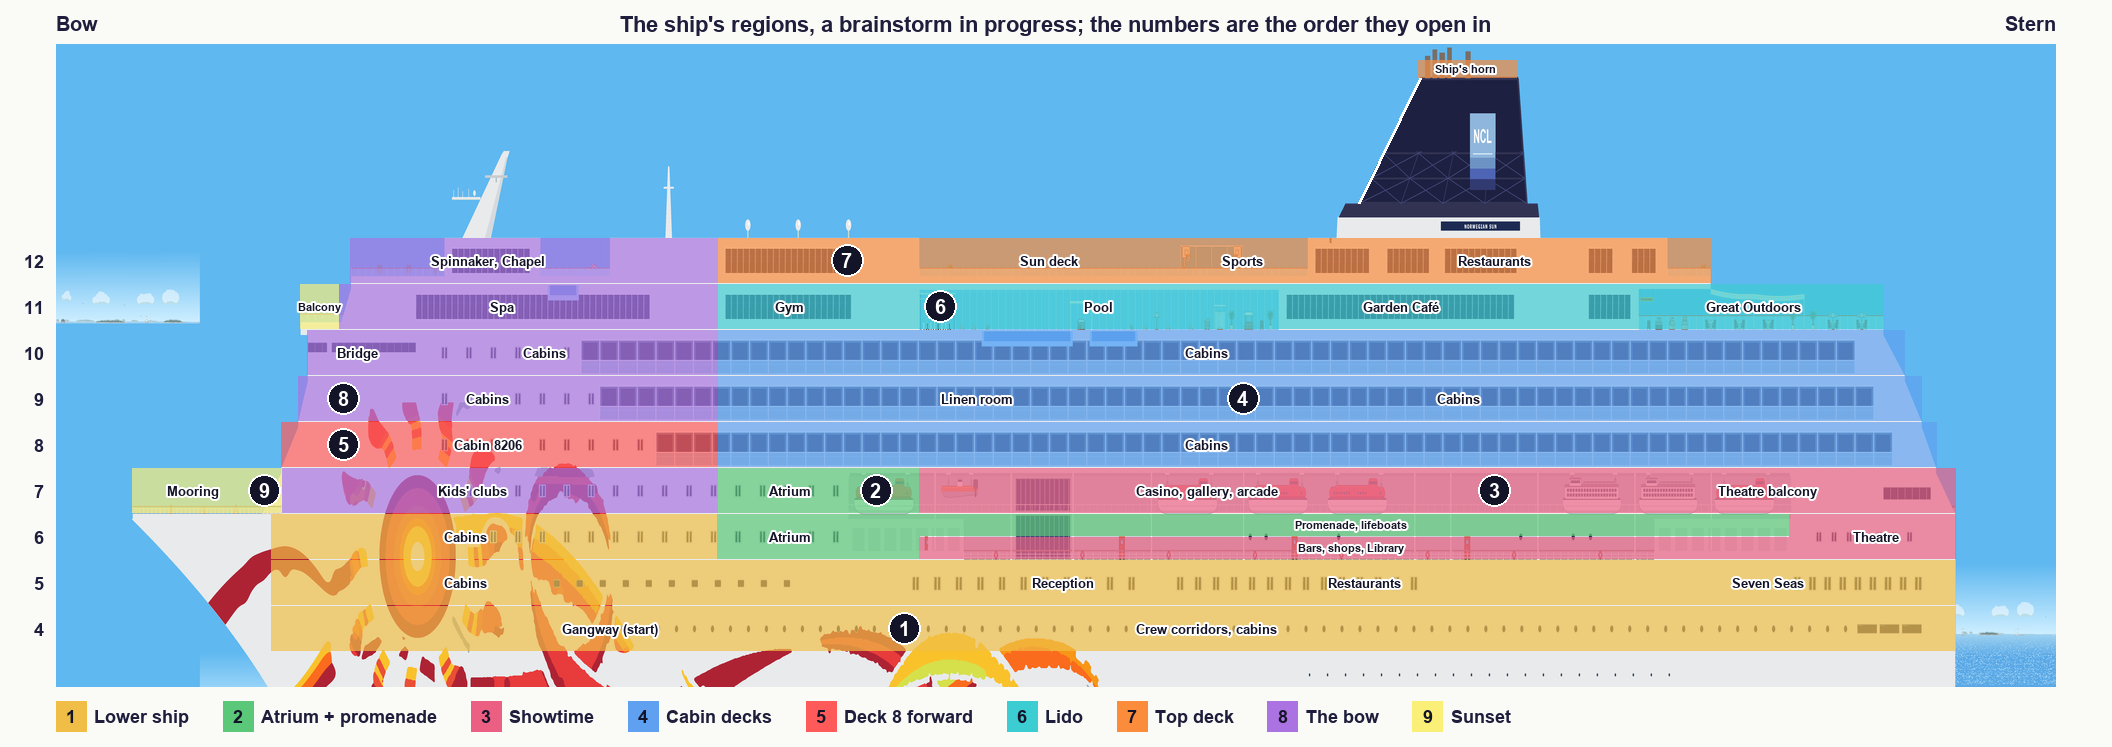
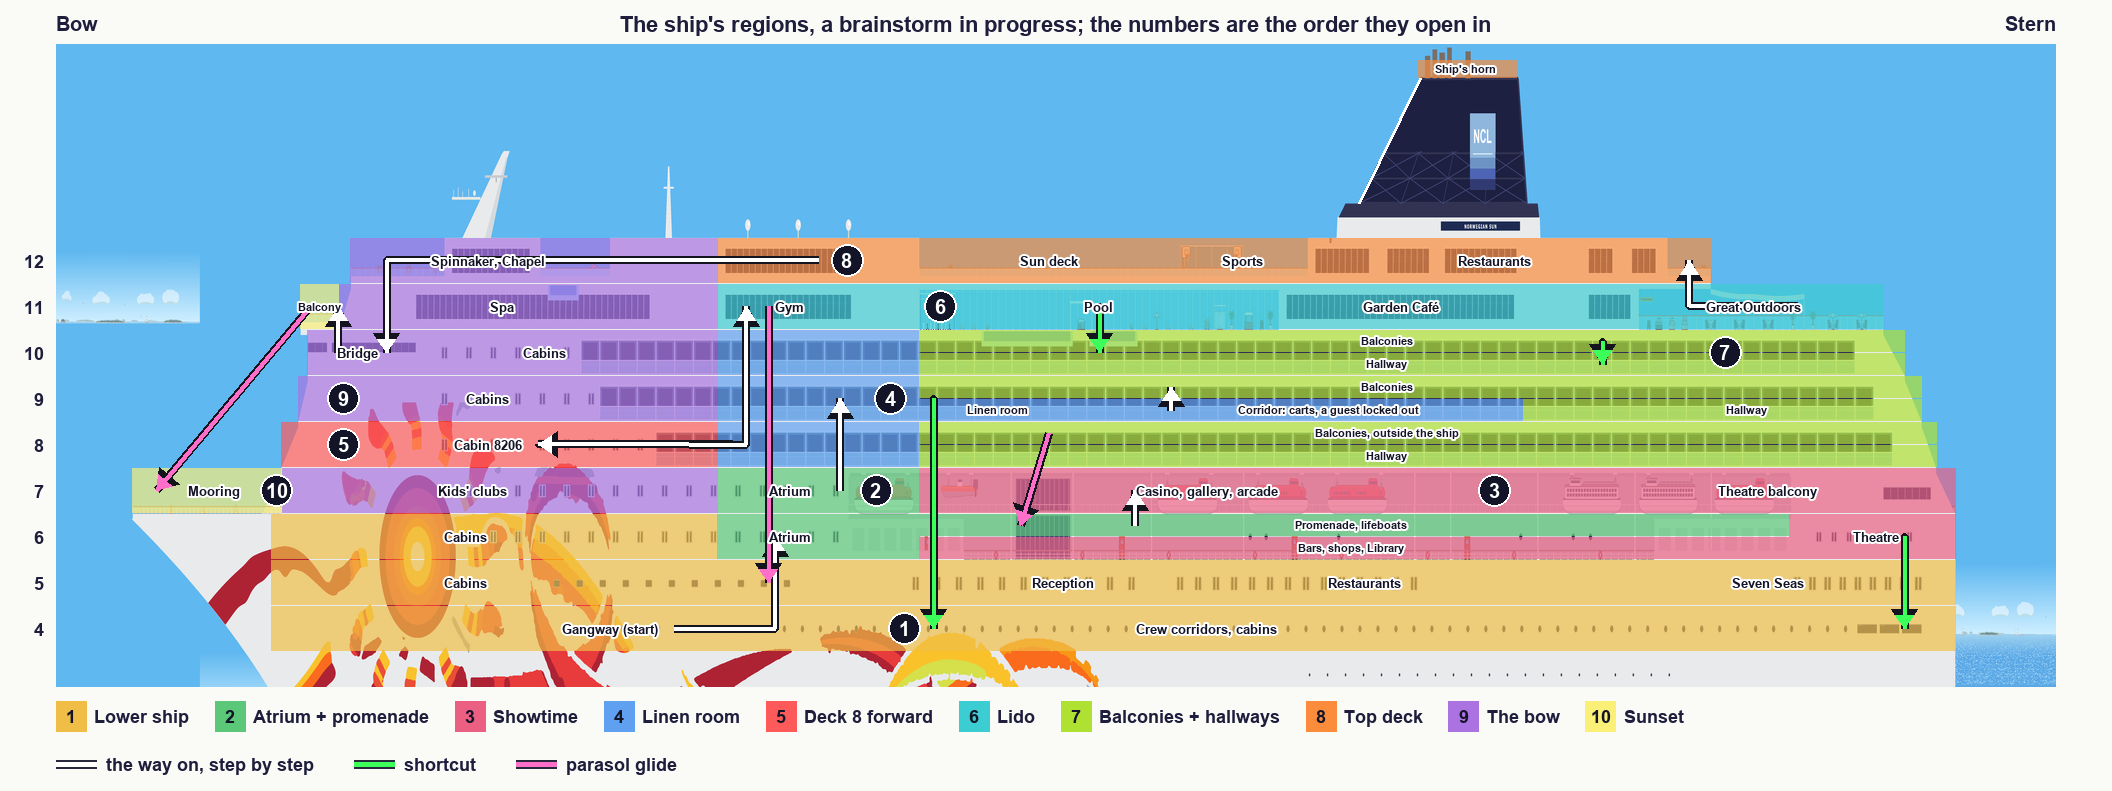
Progression brainstorm, second draft (nothing decided): the cabin decks become hallways opened from the balconies outside, a short Linen room region round deck 9's corridor, ten steps, the routes drawn on the region map

diff --git a/tools/draw_regions.py b/tools/draw_regions.py
@@ -28,8 +28,11 @@ BOTTOM_WORLD = floor_y(4) + 110            # a little hull and sea
 FUNNEL_FA, FUNNEL_TOP = 8544, -228         # the funnel's fore edge and top, as buildFunnel() draws them
 
 
-# Each region: its number, name, colour, and its pieces as (deck, from m, to m), with `half` on the
-# promenade's piece: it shares deck 6 with the rooms behind it, so each takes half of the row.
+# Each region: its number, name, colour, and its pieces as (deck, from m, to m). Where the outside of
+# the ship runs along a deck, its row is split: "outN" the outside half (deck 6's promenade, the
+# balconies on decks 8-10), "inN" the inside half; "prom" and "rooms" are deck 6's two halves.
+# (The user, 2026-11-10: the cabin decks were one long region of corridors. They are hallways
+# now, opened from the balconies outside; only deck 9 midships, round the linen room, is a region.)
 REGIONS = [
     (1, "Lower ship", (240, 190, 70), [
         (4, 20, 254), (5, 20, 254), (6, 20, 82)]),
@@ -37,42 +40,70 @@ REGIONS = [
         (6, 82, 110), (7, 82, 110), ("prom", 110, 231)]),
     (3, "Showtime", (235, 95, 130), [
         ("rooms", 110, 231), (6, 231, 254), (7, 110, 254)]),
-    (4, "Cabin decks", (95, 160, 240), [
-        (8, 82, 251.5), (9, 82, 249.5), (10, 82, 247)]),
+    (4, "Linen room", (95, 160, 240), [
+        (8, 82, 110), (9, 82, 110), (10, 82, 110), ("in9", 110, 194)]),
     (5, "Deck 8 forward", (255, 90, 90), [
         (8, 21.4, 82)]),
     (6, "Lido", (60, 205, 210), [
         (11, 82, 244)]),
-    (7, "Top deck", (250, 140, 60), [
+    (7, "Balconies + hallways", (175, 225, 50), [
+        ("out8", 110, 251.5), ("out9", 110, 249.5), ("out10", 110, 247),
+        ("in8", 110, 251.5), ("in9", 194, 249.5), ("in10", 110, 247)]),
+    (8, "Top deck", (250, 140, 60), [
         (12, 82, 220), ("funnel", 179.5, 193)]),
-    (8, "The bow", (170, 115, 225), [
+    (9, "The bow", (170, 115, 225), [
         (7, 21.4, 82), (9, 23.6, 82), (10, 25, 82), (11, 29.5, 82), (12, 31, 82)]),
-    (9, "Sunset", (250, 240, 120), [
+    (10, "Sunset", (250, 240, 120), [
         (7, 0.5, 21.4), (11, 24, 29.5)]),
 ]
 COLOUR = {n: c for n, _, c, _ in REGIONS}
+FUNNEL_REGION = 8
 
-# Names on the big map: (deck, metre, text); "prom"/"rooms" are deck 6's two halves.
+# Names on the big map: (deck, metre, text).
 LABELS = [
     (4, 67, "Gangway (start)"), (4, 150, "Crew corridors, cabins"),
     (5, 47, "Cabins"), (5, 130, "Reception"), (5, 172, "Restaurants"), (5, 228, "Seven Seas"),
     (6, 47, "Cabins"), (6, 92, "Atrium"), ("prom", 170, "Promenade, lifeboats"),
     ("rooms", 170, "Bars, shops, Library"), (6, 243, "Theatre"),
-    (7, 9, "Mooring"), (7, 48, "Kids' clubs"), (7, 92, "Atrium"), (7, 150, "Casino, gallery, arcade"),
+    (7, 12, "Mooring"), (7, 48, "Kids' clubs"), (7, 92, "Atrium"), (7, 150, "Casino, gallery, arcade"),
     (7, 228, "Theatre balcony"),
-    (8, 50, "Cabin 8206"), (8, 150, "Cabins"), (9, 50, "Cabins"), (9, 118, "Linen room"),
-    (9, 185, "Cabins"), (10, 32, "Bridge"), (10, 58, "Cabins"), (10, 150, "Cabins"),
+    (8, 50, "Cabin 8206"), (9, 50, "Cabins"), (10, 32, "Bridge"), (10, 58, "Cabins"),
+    ("out8", 175, "Balconies, outside the ship"), ("in8", 175, "Hallway"),
+    ("out9", 175, "Balconies"), ("in9", 121, "Linen room"), ("in9", 167, "Corridor: carts, a guest locked out"),
+    ("in9", 225, "Hallway"), ("out10", 175, "Balconies"), ("in10", 175, "Hallway"),
     (11, 52, "Spa"), (11, 92, "Gym"), (11, 135, "Pool"), (11, 177, "Garden Café"),
     (11, 226, "Great Outdoors"), (12, 50, "Spinnaker, Chapel"), (12, 128, "Sun deck"),
     (12, 155, "Sports"), (12, 190, "Restaurants"), ("funnel", 186, "Ship's horn"), (11, 26.8, "Balcony"),
 ]
 
 # Where each region's number sits on the big map.
-BADGES = {1: (4, 108), 2: (7, 104), 3: (7, 190), 4: (9, 155), 5: (8, 30), 6: (11, 113), 7: (12, 100), 8: (9, 30), 9: (7, 19)}
+BADGES = {1: (4, 108), 2: (7, 104), 3: (7, 190), 4: (9, 106), 5: (8, 30), 6: (11, 113), 7: (10, 222),
+          8: (12, 100), 9: (9, 30), 10: (7, 20.5)}
+
+# The routes on the big map: (from (deck, m), to (deck, m), kind). "main": the way on into the next
+# region; "short": a shortcut she opens; "glide": with the parasol.
+ROUTES = [
+    ((4, 76), (6, 90), "main"),                 # 2: up through the atrium, the Deck card
+    (("prom", 140), (7, 140), "main"),          # 3: the door Bumbot left open
+    ((7, 99), (9, 99), "main"),                 # 4: the glass elevator goes on up
+    ((8, 84), (8, 57), "main"),                 # 5: the Housekeeping card's door, deck 8 forward
+    ((8, 78), (11, 86), "main"),                # 6: the forward stairs on up to the pool deck
+    (("in9", 145), ("out9", 145), "main"),      # 7: out through a balcony cabin, grip socks
+    ((11, 232), (12, 217), "main"),             # 8: a wall jump up to deck 12's aft terrace
+    ((12, 96), (10, 36), "main"),               # 9: the Officer's card, forward and down
+    ((10, 29.2), (11, 29.2), "main"),               # 10: the hatch
+    ((11, 25.5), (7, 4), "glide"),              #     and the glide to the bow
+    ((9, 112), (4, 112), "short"),              # the laundry chute
+    ((6, 247), (4, 247), "short"),              # the theatre's one-way trunk
+    ((11, 135), (10, 135), "short"),            # the drained pool's hatch
+    ((11, 89), (5, 89), "glide"),               # down the atrium
+    (("out8", 128), ("prom", 124), "glide"),    # off a balcony to the promenade
+    (("out10", 205), ("in10", 205), "short"),   # a balcony door opened from outside: a hallway
+]
 
 # The order: what opens the region, and the arrows on that step's ship:
 # (from (deck, m), to (deck, m), kind). "errand": hands full; "short": a shortcut; "back": a new
-# way into a place she knows.
+# way into a place she knows; "glide": with the parasol.
 STEPS = [
     (1, "Start at the gangway. Her colleague can't leave his post.",
      "Lunch waits on a tray in a restaurant: carry it to him. He gives her the Deck card.",
@@ -84,25 +115,30 @@ STEPS = [
      "The stage manager wants something from deck 4. Reward: the Entertainment card, and a one-way "
      "escape trunk down to deck 4.",
      [((4, 140), (6, 240), "errand"), ((6, 244), (4, 244), "short")]),
-    (4, "Entertainment card: backstage ladder up to the cabin decks.",
-     "Housekeeping card in the linen room. Opens the laundry chute to deck 4, and pantry doors on decks 4-5.",
-     [((7, 246), (8, 240), "back"), ((9, 113), (4, 113), "short"), ((9, 113), (5, 135), "back")]),
+    (4, "Entertainment card: the glass elevator goes on up to decks 8-10.",
+     "Only deck 9's midships corridor: carts, a door swinging open, a guest locked out, a balcony cabin. "
+     "The linen room: the Housekeeping card, the laundry chute to deck 4, pantry doors on decks 4-5.",
+     [((7, 96), (9, 96), "back"), ((9, 113), (4, 113), "short"), ((9, 113), (5, 135), "back")]),
     (5, "Housekeeping card opens the door at deck 8's forward end.",
      "Cabin 8206, the surprise, a bit past the middle of the game. Its door stands open on her way through.",
      [((8, 95), (8, 42), "back")]),
     (6, "Through deck 8 forward: the only stairs that go on up to the pool deck.",
      "Grip socks (wall jumps) and a parasol (long drops). Both change the old decks. "
      "Bumbot drains the pool: a hatch opens in its tank.",
-     [((8, 78), (11, 90), "back"), ((11, 92), (5, 92), "short"), ((11, 135), (10, 135), "short"),
-      ((11, 226), (7, 252), "back")]),
-    (7, "Grip socks: wall jumps up to deck 12, the roof, and the stairway up the funnel.",
+     [((8, 78), (11, 90), "back"), ((11, 92), (5, 92), "glide"), ((11, 135), (10, 135), "short")]),
+    (7, "Grip socks: out through the balcony cabin on deck 9, climbing balcony to balcony outside the ship.",
+     "Each balcony door she opens from outside unlocks a hallway inside: decks 8-10 become the fast way "
+     "fore and aft. A slip is the overboard scare; the parasol glides down to the promenade.",
+     [(("in9", 145), ("out9", 150), "back"), (("out9", 160), ("out10", 200), "back"),
+      (("out10", 205), ("in10", 205), "short"), (("out8", 128), ("prom", 124), "glide")]),
+    (8, "Grip socks again: a wall jump from the Great Outdoors up to deck 12, then the funnel's stairway.",
      "An engineer up there needs something brought to him, then lets her pull the ship's horn. "
      "The officer runs for the bridge and drops his card; the old lady leaves her sunbed; the gulls lift.",
-     [((5, 172), ("funnel", 186), "errand"), (("funnel", 183), (11, 140), "back"), (("funnel", 183), (12, 118), "back")]),
-    (8, "Officer's card: forward along deck 12, then down through the bow.",
+     [((11, 232), (12, 217), "back"), ((5, 172), ("funnel", 186), "errand"), (("funnel", 183), (12, 118), "back")]),
+    (9, "Officer's card: forward along deck 12, then down through the bow.",
      "Spa, kids' clubs, and at last the bridge. Bumbot hits the alarm there, and the hatch in its ceiling opens.",
      [((12, 85), (11, 60), "back"), ((11, 60), (10, 34), "back")]),
-    (9, "The hatch: up from the bridge to the balcony forward of the spa, as the sun sets.",
+    (10, "The hatch: up from the bridge to the balcony forward of the spa, as the sun sets.",
      "She glides down on the parasol to the mooring deck, shut until now. At the tip of the bow he finally comes to her.",
      [((10, 28), (11, 27), "back"), ((11, 26), (7, 5), "glide")]),
 ]
@@ -150,16 +186,21 @@ class Ship:
         return (x_of(m) - 8) * self.sx
 
     def band(self, deck):
-        """The top and bottom of a deck's row; deck 6's two halves for "prom" and "rooms"; on top
-        of the funnel for "funnel"."""
+        """The top and bottom of a deck's row. A deck's row is split in two where the outside of the
+        ship runs along it: "outN" its top half (deck 6's promenade, the balconies of decks 8-10),
+        "inN" its bottom half (the rooms and corridors inside); "prom" and "rooms" are deck 6's.
+        "funnel": on top of the funnel."""
         if deck == "funnel":
             return (FUNNEL_TOP - 58 - TOP_WORLD) * self.sy, (FUNNEL_TOP - TOP_WORLD) * self.sy
-        d = 6 if deck in ("prom", "rooms") else deck
-        bottom = (floor_y(d) - TOP_WORLD) * self.sy
+        deck = {"prom": "out6", "rooms": "in6"}.get(deck, deck)
+        half = None
+        if isinstance(deck, str):
+            half, deck = deck[:-1] if deck[-2].isalpha() else deck[:-2], int(deck.lstrip("outin"))
+        bottom = (floor_y(deck) - TOP_WORLD) * self.sy
         top = bottom - self.row
-        if deck == "prom":
+        if half == "out":
             return top, top + self.row / 2
-        if deck == "rooms":
+        if half == "in":
             return top + self.row / 2, bottom
         return top, bottom
 
@@ -199,7 +240,8 @@ def arrow(d, a, b, colour, width):
         d.polygon([b, (b[0] - sign * head * 1.5, b[1] - head), (b[0] - sign * head * 1.5, b[1] + head)], fill=colour)
 
 
-KIND = {"errand": (255, 255, 255), "short": (60, 255, 90), "back": (255, 240, 60), "glide": (255, 110, 200)}
+KIND = {"errand": (255, 255, 255), "short": (60, 255, 90), "back": (255, 240, 60), "glide": (255, 110, 200),
+        "main": (255, 255, 255)}
 
 
 def tint(ship, opened, new=None, dim=True, alpha=175):
@@ -216,7 +258,7 @@ def tint(ship, opened, new=None, dim=True, alpha=175):
                     d.rectangle(r, outline=(255, 255, 255, 255), width=2)
             elif dim:
                 d.rectangle(r, fill=(28, 26, 40, 225))
-    if 7 in opened:                 # the stairway up the funnel's sloped front
+    if FUNNEL_REGION in opened:     # the stairway up the funnel's sloped front
         ImageDraw.Draw(layer).line([ship.world(FUNNEL_FA + 150, 164), ship.world(FUNNEL_FA + 560, FUNNEL_TOP)],
                                    fill=(255, 255, 255, 255), width=max(2, round(ship.row / 14)))
     im.alpha_composite(layer)
@@ -226,13 +268,18 @@ def tint(ship, opened, new=None, dim=True, alpha=175):
 def big_map(full):
     width, row = 2000, 46
     ship = Ship(full, width, row)
-    pad, title, legend = 56, 44, 60
+    pad, title, legend = 56, 44, 104
     im = Image.new("RGB", (width + pad * 2, ship.base.height + title + legend), (250, 250, 247))
     ship_im = tint(ship, {n for n, *_ in REGIONS})
     d = ImageDraw.Draw(ship_im)
+    for a, b, kind in ROUTES:
+        pa, pb = ship.point(a), ship.point(b)
+        draw = glide if kind == "glide" else arrow
+        draw(d, pa, pb, (20, 20, 30), 8)
+        draw(d, pa, pb, KIND[kind], 4)
     for deck, m, text in LABELS:
         x, y = ship.point((deck, m))
-        size = 11 if deck in ("prom", "rooms", "funnel") or text == "Balcony" else 13
+        size = 11 if isinstance(deck, str) or text == "Balcony" else 13
         d.text((x, y), text, font=font(size, True), fill=(20, 20, 40), anchor="mm",
                stroke_width=2, stroke_fill=(255, 255, 255))
     for n, spot in BADGES.items():
@@ -257,7 +304,13 @@ def big_map(full):
         d.rectangle([x, y, x + 30, y + 30], fill=colour)
         d.text((x + 15, y + 15), str(n), font=font(18, True), fill=(20, 20, 40), anchor="mm")
         d.text((x + 38, y + 15), name, font=font(18, True), fill=(30, 30, 60), anchor="lm")
-        x += 38 + d.textlength(name, font=font(18, True)) + 34
+        x += 38 + d.textlength(name, font=font(18, True)) + 26
+    x, y = pad, y + 48
+    for kind, label in (("main", "the way on, step by step"), ("short", "shortcut"), ("glide", "parasol glide")):
+        d.line([(x, y + 15), (x + 40, y + 15)], fill=(40, 40, 60), width=9)
+        d.line([(x, y + 15), (x + 40, y + 15)], fill=KIND[kind], width=5)
+        d.text((x + 50, y + 15), label, font=font(18, True), fill=(30, 30, 60), anchor="lm")
+        x += 50 + d.textlength(label, font=font(18, True)) + 40
     im.save(ROOT / "docs" / "ship-regions.png")
 
 

diff --git a/GAME_DESIGN.md b/GAME_DESIGN.md
@@ -669,22 +669,38 @@ still change. The user likes the ideas so far.
 #### The regions and the order they open in
 
 `python tools/draw_regions.py` draws these from its own lists (after `python tools/render_ship.py`).
+The region map shows the routes too: the way on into each region, the shortcuts, the parasol glides.
 
 ![The ship's regions](docs/ship-regions.png)
 
 ![The order the ship opens up](docs/ship-unlock-order.png)
+
+**The cabin decks, rethought (the user, 2026-11-10):** in the first draft decks 8-10 were one region,
+three corridors of about 170 m each (about a minute of the same doors per deck at her run speed),
+with little in them but the linen room, and a metroidvania crosses its ground again and again. So
+they are no longer a region of their own but the ship's long hallways, the fast way fore and aft:
+only deck 9 midships, round the linen room, is a region (4). The rest opens from **the balconies
+outside** (region 7): the rows of balconies on the ship's side, decks 8-10, climbed with the grip
+socks, a balcony door opened from outside unlocking a hallway inside (the way deck 6's promenade
+doors take her out and in). On the maps the rows of decks 8-10 are split in two, the outside on
+top and the inside below, as deck 6's promenade and rooms are. The corridors that remain get life
+from the hazards of §5.8 (carts, a cabin door swinging open as she passes, the robot vacuum),
+cabins she can enter (§5.1's doors into small rooms: a guest locked out, a cabin mid-cleanup, a
+"Do Not Disturb" sign that matters) and a look of their own per deck (a carpet colour, pictures),
+so she knows which deck she is on without a map.
 
 | Step | Region | What it covers | What opens it | Why she goes there or back |
 |---|---|---|---|---|
 | 1 | Lower ship | Decks 4-5, deck 6 forward, the atrium's floor | The start, at the gangway | The first errand: lunch from a deck 5 restaurant to a colleague at the gangway, who gives her the Deck card |
 | 2 | Atrium + promenade | The atrium on decks 6-7, the promenade | Deck card | Back up from deck 4 past places she knows. Bumbot's first near-catch: he bolts through a door and leaves it open |
 | 3 | Showtime | Deck 6's rooms and theatre, deck 7 midships and aft | The door he left open | The stage manager needs something from deck 4; reward: the Entertainment card, and a one-way trunk from the theatre to deck 4 |
-| 4 | Cabin decks | Decks 8-10 from the atrium aft | Entertainment card, up a backstage ladder | The Housekeeping card in the linen room opens the laundry chute (deck 9 to deck 4) and pantry doors on decks 4-5 |
+| 4 | Linen room | The atrium on decks 8-10, deck 9's midships corridor | Entertainment card: the glass elevator goes on up to decks 8-10 | A short corridor with life in it (carts, a guest locked out, a balcony cabin). The linen room: the Housekeeping card, the laundry chute to deck 4, pantry doors on decks 4-5 |
 | 5 | Deck 8 forward | Deck 8 forward of the atrium, **cabin 8206** | Housekeeping card, a door at that end of deck 8 | The surprise: her cabin, its door open, on her way through |
 | 6 | Lido | Deck 11 from the gym aft | Walking through deck 8 forward: the only stairs going on up to the pool deck | Grip socks and the parasol change the old decks (the atrium, the stern tiers, shafts). Bumbot drains the pool: a hatch in its tank |
-| 7 | Top deck + funnel top | Deck 12 from the atrium aft, the funnel's top | Grip socks: wall jumps up to deck 12 | The engineer's errand, then the ship's horn (below): the officer runs for the bridge and drops his card, the old lady leaves her sunbed, the gulls lift |
-| 8 | The bow | Deck 7 forward (kids' clubs), decks 9-12 forward: spa, bridge, Spinnaker | Officer's card, forward along deck 12 then down | At last the bridge: Bumbot hits the alarm, the hatch in its ceiling opens |
-| 9 | Sunset | The balcony forward of the spa, the mooring deck | The hatch | The ending (below) |
+| 7 | Balconies + hallways | The balconies outside decks 8-10, and their hallways inside | Grip socks: out through the balcony cabin on deck 9 | Climbing balcony to balcony outside the ship; each balcony door opened from outside unlocks a hallway. A slip is the overboard scare; the parasol glides down to the promenade |
+| 8 | Top deck + funnel top | Deck 12 from the atrium aft, the funnel's top | Grip socks again: a wall jump from the Great Outdoors up to deck 12's aft terrace | The engineer's errand, then the ship's horn (below): the officer runs for the bridge and drops his card, the old lady leaves her sunbed, the gulls lift |
+| 9 | The bow | Deck 7 forward (kids' clubs), decks 9-12 forward: spa, bridge, Spinnaker | Officer's card, forward along deck 12 then down | At last the bridge: Bumbot hits the alarm, the hatch in its ceiling opens |
+| 10 | Sunset | The balcony forward of the spa, the mooring deck | The hatch | The ending (below) |
 
 Staggering the stairs means the forward core must let her climb from deck 8 to deck 11 at step 6,
 with its doors on decks 9 and 10 still shut.
@@ -759,7 +775,8 @@ The maps above draw the horn and the engineer together.
 
 #### Still open
 
-1. The order of the nine steps.
+1. The order of the ten steps, and the cabin decks' new split: a short Linen room region, the
+   hallways opened from the balconies outside (2026-11-10, waiting for the user's review).
 2. What the funnel's top is for: the horn, the engineer, both, or something else.
 3. Whether the fire doors are really gone.
 4. Whether the final glide should be harder, with wind or gulls, and whether the short finale (bridge,
@@ -771,7 +788,9 @@ The maps above draw the horn and the engineer together.
 8. Whether her hands are full while carrying something, so no ladders or trunks, only stairs and
    elevators (Claude's suggestion: it makes her plan a route through decks she knows).
 9. Deck 7's stern strip (§8) as a secret she glides down to with the parasol.
-10. How many near-catches there are, and where; where the checkpoints go; whether the dash stays, and
+10. The drained pool's hatch (step 6) drops her into deck 10's hallway before the balconies open
+    the hallways (step 7): an early taste of them (Claude's suggestion), or somewhere else?
+11. How many near-catches there are, and where; where the checkpoints go; whether the dash stays, and
     what the tangerines are then for.
 
 ### 6.2 What the code can already do
